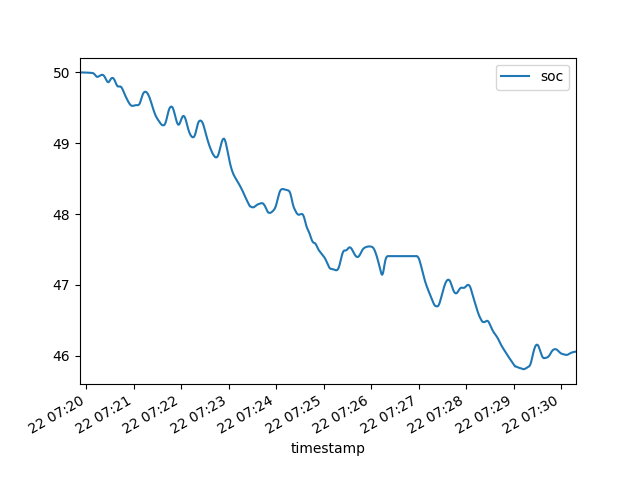
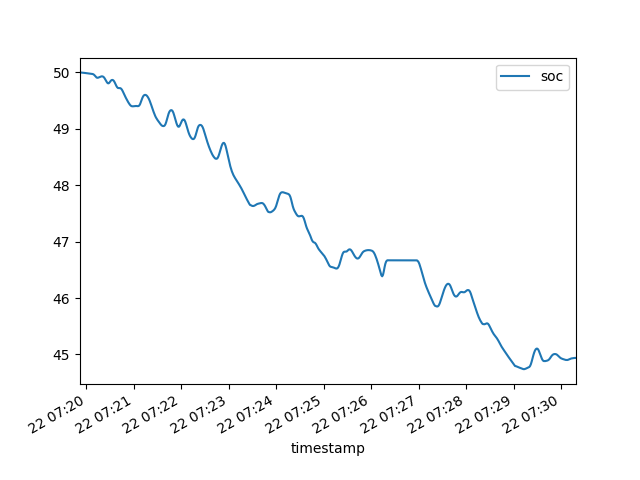
Completed issue #10
* Included auxiliary loads in method 'regen_braking'.
* Updated methods 'charge' and 'discharge' to take into account battery efficiency, and min/max SOC to ensure safe operation of EV.
* Updated method 'soc_over_time' to calculate SOC with total power consumption (including auxiliary loads)
* Program plots total energy consumption over time and saves figure

diff --git a/EV_data_analysis.py b/EV_data_analysis.py
@@ -55,41 +55,54 @@ class EV():
 
     def charge(self,power_in_joules): 
         """
-        Method to charge EV battery
+        Method to charge EV battery, accounting for battery efficiency
 
         :param data: power (because data is measured every second)
         :return: new SOC for the EV object
         """
+        #maximum SOC to ensure safe operation
+        max_soc = 95 # in %
+        max_charge_lvl = (max_soc/100) * self.capacity
+
+        n_battery = 90 #battery efficiency
         Wh_to_J = 3600
-        power = power_in_joules / Wh_to_J #convert joules to Wh
-        if (self.capacity-self.charge_lvl) >= power:
+        power = (power_in_joules / Wh_to_J) / (n_battery / 100) #convert joules to Wh
+
+        if (max_charge_lvl - self.charge_lvl) >= power:
             self.charge_lvl += power
         else:
-            temp = self.charge_lvl+power-self.capacity
+            temp = self.charge_lvl+power-max_charge_lvl
             self.excess += temp
             print('Battery is full, {} Wh of excess energy'.format(temp))
-            self.charge_lvl = self.capacity
+            self.charge_lvl = max_charge_lvl
+
+        # calculates the new instantaneous SOC
         self.soc = (self.charge_lvl/self.capacity) * 100
 
     def discharge(self,power_in_joules): 
         """
-        Method to discharge EV battery
+        Method to discharge EV battery, accounting for battery efficiency
 
         :param data: power (because data is measured every second)
         :return: new SOC for the EV object
         """
+        #minimum SOC to ensure safe operation
+        min_soc = 20
+        min_charge_lvl = (min_soc/100) * self.charge_lvl
+
+        n_battery = 90 #battery efficiency
         Wh_to_J = 3600
-        power = power_in_joules / Wh_to_J #convert joules to Wh
-        if self.charge_lvl == 0:
-            self.deficit += power
-            print('Battery is COMPLETELY drained, {} Wh of energy deficit'.format(power))
-        elif power > self.charge_lvl:
-            temp = power-self.charge_lvl
+        power = (power_in_joules / Wh_to_J) / (n_battery / 100) #convert joules to Wh
+        
+        if power > (self.charge_lvl - min_charge_lvl):
+            temp = power - (self.charge_lvl - min_charge_lvl)
             self.deficit += temp
             print('Battery is COMPLETELY drained, {} Wh of energy deficit'.format(temp))
-            self.charge_lvl = 0
+            self.charge_lvl = min_charge_lvl
         else:
             self.charge_lvl -= power
+
+        # calculates the new instantaneous SOC
         self.soc = (self.charge_lvl/self.capacity) * 100
 
 
@@ -161,12 +174,13 @@ class EV():
 
     def regen_braking(self):
         """
-        Calculates the energy consumption (with regenerative braking efficiency included)
+        Calculates the energy consumption (with regenerative braking efficiency and auxiliary loads included)
         trend and plots it against time
 
         :param data: data in DataFrame
-        :return: data in DataFrame with two new columns: regenerative braking efficiency
-                                                        and power at electric motor adjusted with n_rb
+        :return: data in DataFrame with 3 new columns: regenerative braking efficiency,
+                                                        power at electric motor adjusted with n_rb
+                                                        and total power consumed including auxiliary loads
         """
         alpha = 0.0411
 
@@ -183,19 +197,28 @@ class EV():
         pos_energy_consumption.where(self.data['accel_mps2']>=0, other=0, inplace = True)
         self.data['P_regen'] += pos_energy_consumption
 
+        # add the energy consumption of auxiliary loads
+        auxiliary = 700 # Watts or Joules per second
+        self.data['P_total'] = self.data['P_regen'] + auxiliary
+
         return
 
     def soc_over_time(self):
+        """
+        Calculates the SOC and charge level of the vehicle over time
+
+        :param data: -
+        :return: data in DataFrame with 2 new columns: SOC of EV over time
+                                                        and charge level of EV over time
+        """
         timeseries_soc = []
         timeseries_charge_lvl = []
-        for x in self.data['P_regen']:
+        for x in self.data['P_total']:
             self.discharge(x)
             timeseries_soc.append(self.soc)
             timeseries_charge_lvl.append(self.charge_lvl)
-        print(timeseries_soc)
-        print(timeseries_charge_lvl)
         self.data['soc'] = timeseries_soc
-        print(self.data)
+        self.data['charge_lvl'] = timeseries_charge_lvl
 
     def graph_plotter(self, x='timestamp', y='P_regen', file_name='energy_consumption_with_regen.png',
                     subdir='test', date='test'):
@@ -229,11 +252,11 @@ data['timestamp'] = pd.to_datetime(data['timestamp'], format='%Y-%m-%d %H:%M:%S'
 sliced_data = EV_object.calculate_energy_consumption(data.loc[1:593])
 EV_object.soc_over_time()
 
-y = ['P_electric_motor', 'speed_mps', 'P_regen', 'n_rb', 'soc']
-file_name = ['energy_consumption.png', 'speed_profile.png', 'energy_consumption_with_regen.png', 'n_rb.png', 'soc.png']
+y = ['P_electric_motor', 'speed_mps', 'P_regen', 'n_rb', 'soc', 'P_total']
+file_name = ['energy_consumption.png', 'speed_profile.png', 'energy_consumption_with_regen.png', 'n_rb.png', 'soc.png', 'total_energy_conumption.png']
 EV_object.graph_plotter(y=y, file_name=file_name, subdir=subdir, date=file.strip('.csv'))
 
-print(sum(sliced_data['P_regen'])) #calculate the final energy consumption, accounting for RB efficiency
+print(sum(sliced_data['P_total'])) #calculate the final energy consumption, accounting for RB efficiency and auxiliary loads
 print(sum(sliced_data['P_electric_motor'])) #calculate the final energy consumption, NOT accounting for RB efficiency (therefore should be smaller)
 
 
